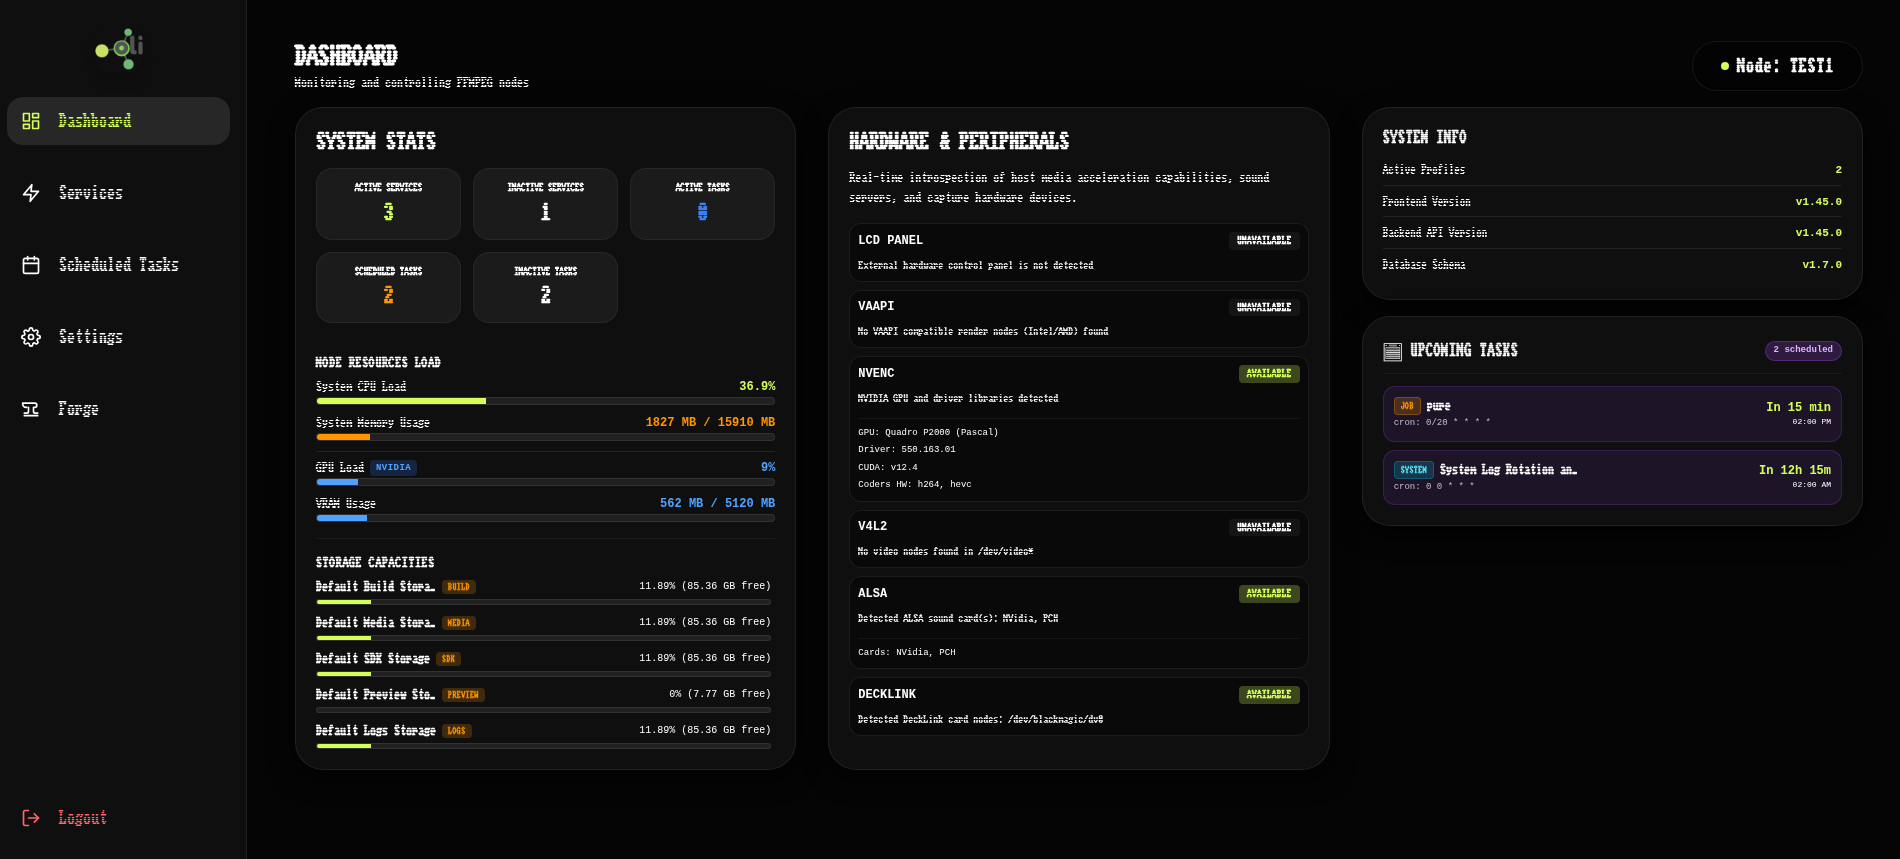
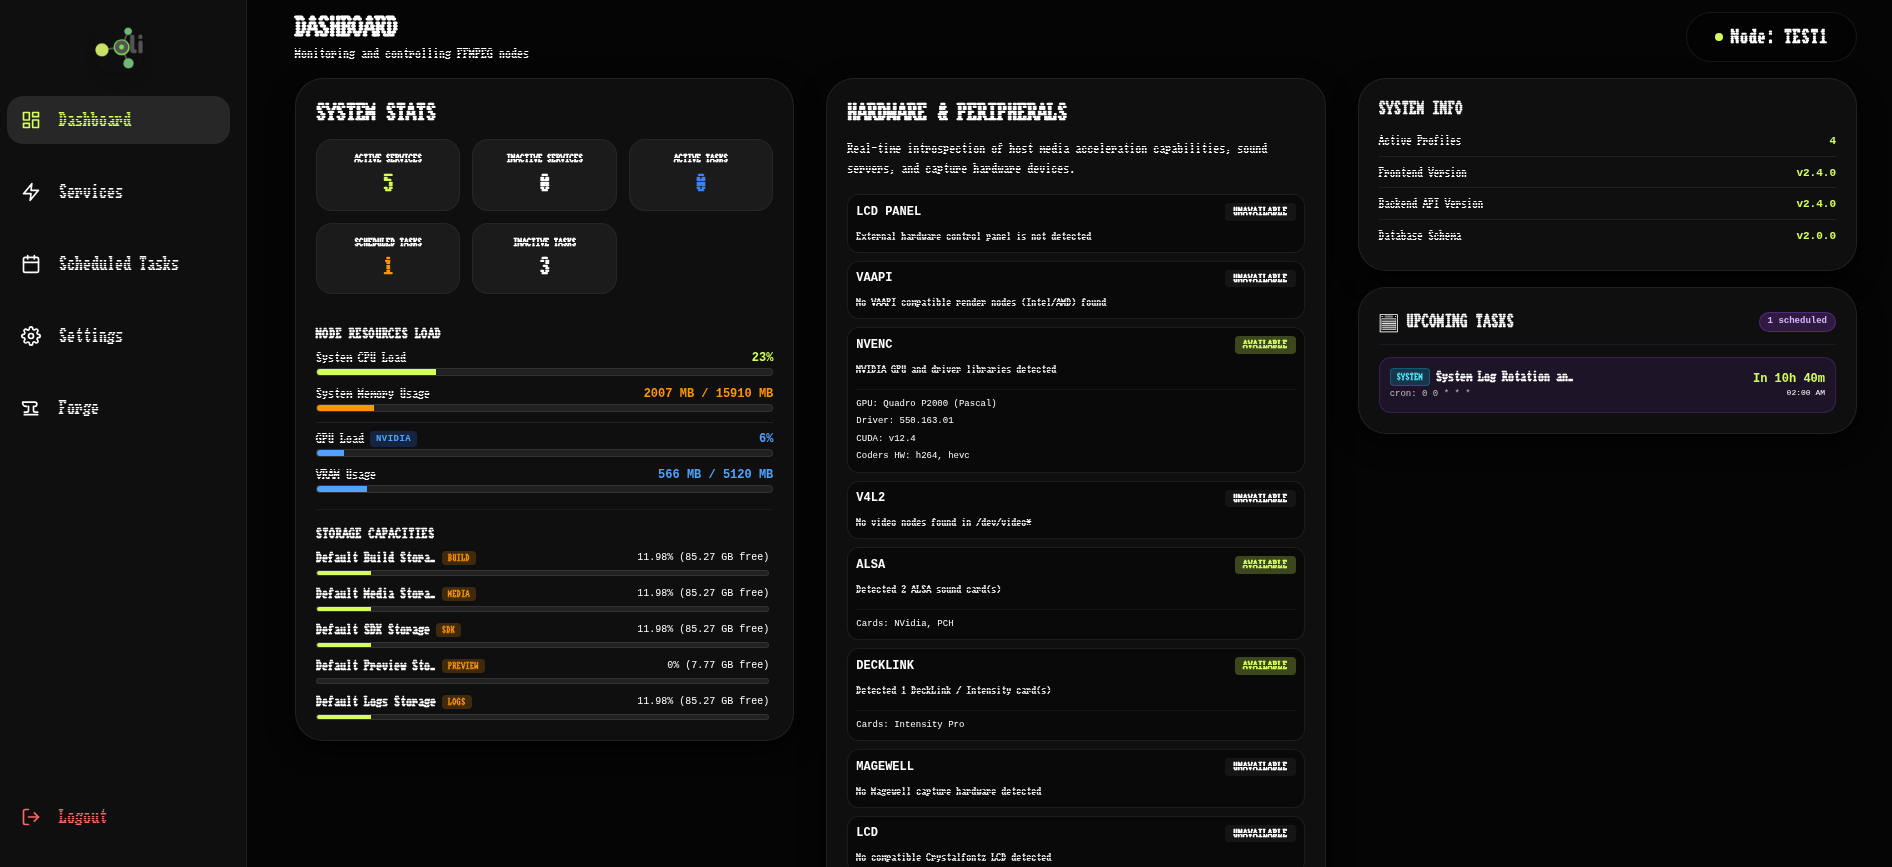
docs(readme): integrate DeckLink, Magewell, Task Scheduling, and Warm Paper screenshots

diff --git a/README.md b/README.md
@@ -40,10 +40,14 @@ Inspired by high-reliability systems and developer utility, it provides an intui
 
 ### 🎛 3. Professional AV Hardware & Control
 - **Blackmagic DeckLink Hardware Control**: Headless SDI/HDMI connector mapping (half/full duplex), real-time signal lock and format telemetry, and card firmware verification/flashing (`BlackmagicFirmwareUpdater`).
-- **Magewell Capture Cards**: Reliable integration with HDMI/SDI input capture via V4L2.
+- **Magewell Capture Cards**: Hardware telemetry and routing for Pro Capture / Eco Capture / USB Capture devices (`mwcap-info` / `mwcap-control`), live FPGA temperature monitoring, connector switching, and V4L2/ALSA stream integration.
 - **AudioScience Soundcards**: Advanced ALSA hardware support, resolving topology mapping and crosspoint volume matrix routing.
 - **Graphical Overlay Studio**: Fully graphical editor to place, scale, and preview graphic overlays on top of video streams.
 - **Audio Dynamics & Filters**: Dynamic range compressors, multi-band graphic equalizers, and ALSA loopback routing.
+
+![Blackmagic DeckLink Hardware Control](docs/assets/screenshot10.png)
+
+![Magewell Pro Capture Control & Live Telemetry](docs/assets/screenshot11.png)
 
 ![ALSA Audio Routing Matrix](docs/assets/screenshot8.png)
 
@@ -92,6 +96,8 @@ Inspired by high-reliability systems and developer utility, it provides an intui
 - **Full Translations**: English, Spanish, and Catalan interfaces with 100% i18n parity.
 
 ![Theme Switcher & Localization Settings](docs/assets/screenshot9.png)
+
+![Warm Paper Theme in Task Scheduling](docs/assets/screenshot12.png)
 
 ---
 
